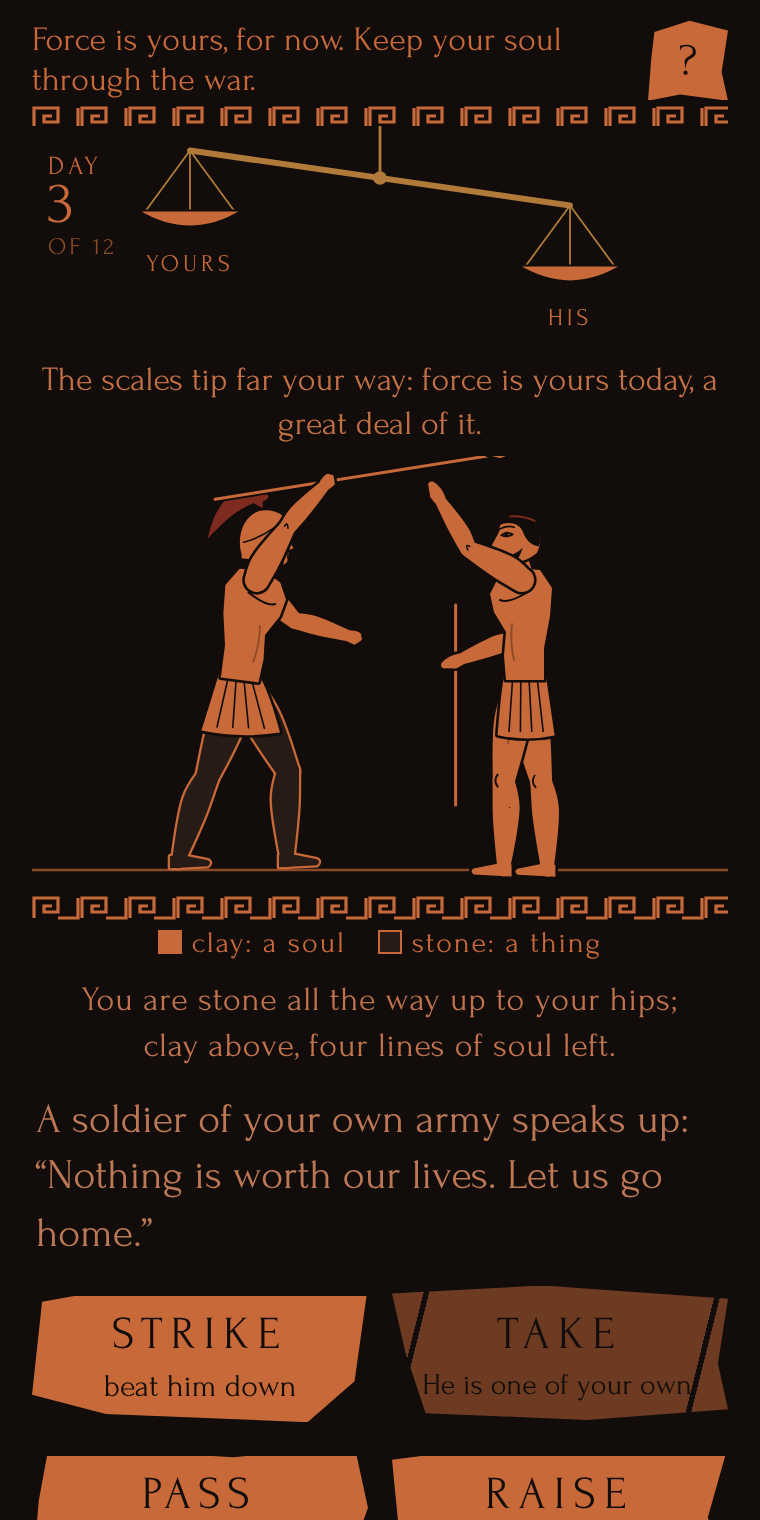
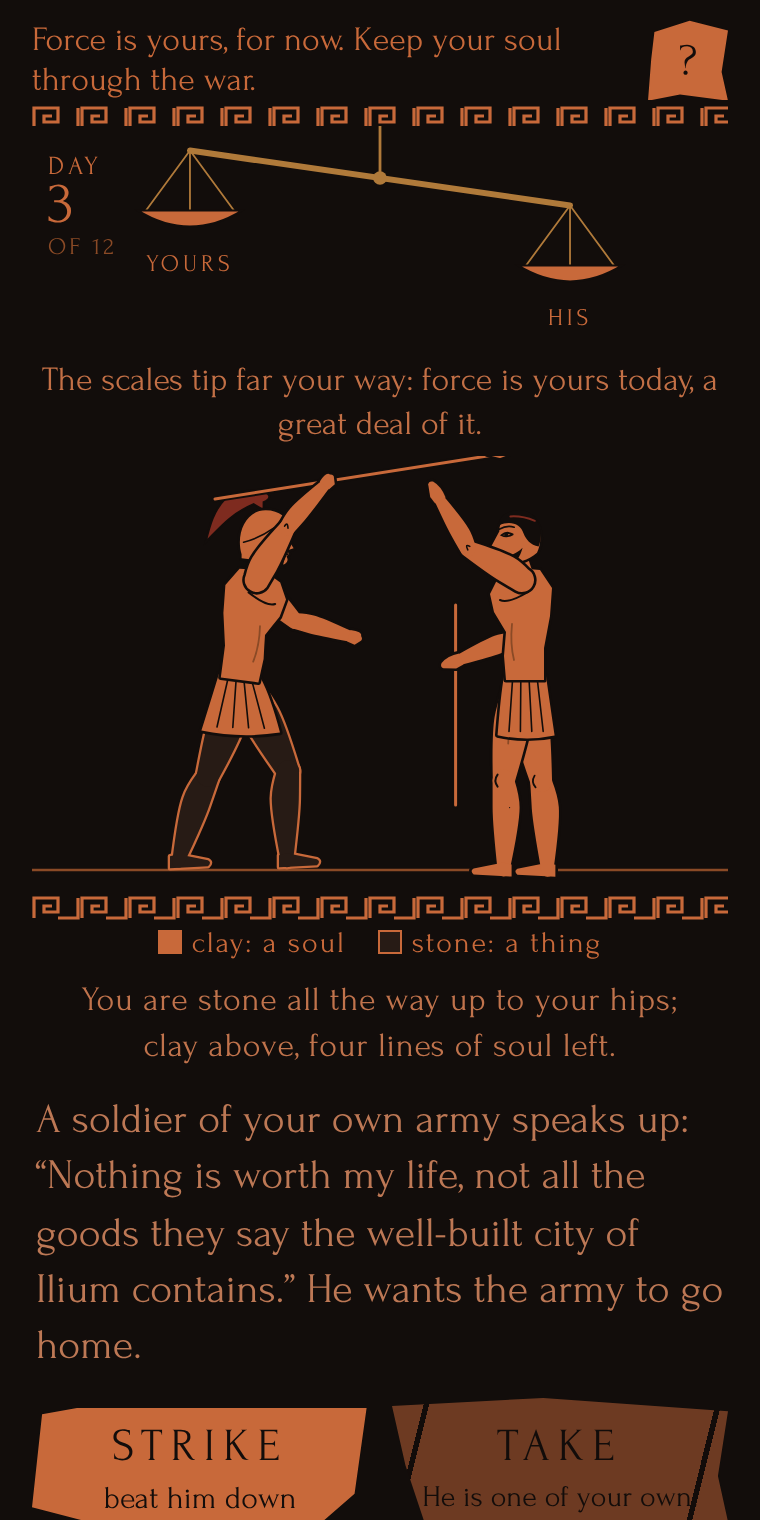
Weil's Vase, revision 6: quotations checked against the pamphlet; two lines made McCarthy's
Claude-Session: https://claude.ai/code/session_018niUhvwiMGBqmAW4HxwubP

Changed region(s): [[0.0303, 0.7421, 0.9684, 1.0]]

diff --git a/weil/weils-vase.html b/weil/weils-vase.html
@@ -283,13 +283,13 @@ svg{display:block}
     // 'noun' is how the engraved line introduces an armed man, so that the dealt men read as different men
     boy:       { kind: 'suppliant', lines: 6, armed: false, he: 'he', who: 'the boy', line: 'A boy, disarmed, clasps your knees. He offers a ransom for his life.', src: 'pp. 5, 24: Lycaon' },
     suppliant: { kind: 'suppliant', lines: 6, armed: false, he: 'he', who: 'the young man', line: 'A young man has thrown away his spear and clasps your knees. He begs you by your father.', src: 'pp. 5–6, 24' },
-    suppliant2:{ kind: 'suppliant', lines: 5, armed: false, he: 'he', who: 'the wounded man', line: 'A wounded man, his spear gone, holds out his arms to you. “I implore you, by your knees.”', src: 'p. 19: Hector, wounded to death' },
+    suppliant2:{ kind: 'suppliant', lines: 5, armed: false, he: 'he', who: 'the wounded man', line: 'A wounded man, his spear gone, holds out his arms to you. “I implore you, by your soul, by your knees, by your parents.”', src: 'p. 19: Hector, wounded to death' },
     stoneman:  { kind: 'armed', lines: 1, armed: true, he: 'he', who: 'the armed man', noun: 'An armed man', src: 'pp. 25–26' },
     stone2:    { kind: 'armed', lines: 1, armed: true, he: 'he', who: 'the charioteer', noun: 'A charioteer, down from his car', src: 'pp. 25–26' },
     stone3:    { kind: 'armed', lines: 2, armed: true, he: 'he', who: 'the Lycian', noun: 'A Lycian, far from home', src: 'pp. 25–26' },
     half:      { kind: 'armed', lines: 3, armed: true, he: 'he', who: 'the man with the wounded hand', noun: 'A man with a wounded hand', src: 'pp. 12–13: fear changes sides' },
     guest:     { kind: 'armed', lines: 5, armed: true, he: 'he', who: 'the spearman', noun: 'A spearman of the enemy', src: 'p. 28: Glaucus and Diomedes' },
-    speaker:   { kind: 'speaker', lines: 6, armed: false, he: 'he', who: 'the soldier who spoke up', line: 'A soldier of your own army speaks up: “Nothing is worth our lives. Let us go home.”', src: 'pp. 11, 20: Thersites; Achilles' },
+    speaker:   { kind: 'speaker', lines: 6, armed: false, he: 'he', who: 'the soldier who spoke up', line: 'A soldier of your own army speaks up: “Nothing is worth my life, not all the goods they say the well-built city of Ilium contains.” He wants the army to go home.', src: 'pp. 11, 20: Thersites; Achilles' },
     captive:   { kind: 'captive', lines: 6, armed: false, he: 'she', who: 'the woman at the loom', line: 'A woman of the taken city stands at her loom. She is yours, if you want her.', src: 'pp. 8–10' },
     priest:    { kind: 'priest', lines: 6, armed: false, he: 'he', who: 'the old priest', line: 'An old priest asks for his daughter back. Your army holds her. He brings a ransom.', src: 'pp. 8, 14: Chryses' },
     runner:    { kind: 'runner', lines: 5, armed: false, he: 'he', who: 'the man who ran from you', line: 'A man runs from you across the plain, the last of his company.', src: 'p. 17: “steadily killing the hindmost”' },

diff --git a/weil/mechanism.js b/weil/mechanism.js
@@ -86,13 +86,13 @@
     // 'noun' is how the engraved line introduces an armed man, so that the dealt men read as different men
     boy:       { kind: 'suppliant', lines: 6, armed: false, he: 'he', who: 'the boy', line: 'A boy, disarmed, clasps your knees. He offers a ransom for his life.', src: 'pp. 5, 24: Lycaon' },
     suppliant: { kind: 'suppliant', lines: 6, armed: false, he: 'he', who: 'the young man', line: 'A young man has thrown away his spear and clasps your knees. He begs you by your father.', src: 'pp. 5–6, 24' },
-    suppliant2:{ kind: 'suppliant', lines: 5, armed: false, he: 'he', who: 'the wounded man', line: 'A wounded man, his spear gone, holds out his arms to you. “I implore you, by your knees.”', src: 'p. 19: Hector, wounded to death' },
+    suppliant2:{ kind: 'suppliant', lines: 5, armed: false, he: 'he', who: 'the wounded man', line: 'A wounded man, his spear gone, holds out his arms to you. “I implore you, by your soul, by your knees, by your parents.”', src: 'p. 19: Hector, wounded to death' },
     stoneman:  { kind: 'armed', lines: 1, armed: true, he: 'he', who: 'the armed man', noun: 'An armed man', src: 'pp. 25–26' },
     stone2:    { kind: 'armed', lines: 1, armed: true, he: 'he', who: 'the charioteer', noun: 'A charioteer, down from his car', src: 'pp. 25–26' },
     stone3:    { kind: 'armed', lines: 2, armed: true, he: 'he', who: 'the Lycian', noun: 'A Lycian, far from home', src: 'pp. 25–26' },
     half:      { kind: 'armed', lines: 3, armed: true, he: 'he', who: 'the man with the wounded hand', noun: 'A man with a wounded hand', src: 'pp. 12–13: fear changes sides' },
     guest:     { kind: 'armed', lines: 5, armed: true, he: 'he', who: 'the spearman', noun: 'A spearman of the enemy', src: 'p. 28: Glaucus and Diomedes' },
-    speaker:   { kind: 'speaker', lines: 6, armed: false, he: 'he', who: 'the soldier who spoke up', line: 'A soldier of your own army speaks up: “Nothing is worth our lives. Let us go home.”', src: 'pp. 11, 20: Thersites; Achilles' },
+    speaker:   { kind: 'speaker', lines: 6, armed: false, he: 'he', who: 'the soldier who spoke up', line: 'A soldier of your own army speaks up: “Nothing is worth my life, not all the goods they say the well-built city of Ilium contains.” He wants the army to go home.', src: 'pp. 11, 20: Thersites; Achilles' },
     captive:   { kind: 'captive', lines: 6, armed: false, he: 'she', who: 'the woman at the loom', line: 'A woman of the taken city stands at her loom. She is yours, if you want her.', src: 'pp. 8–10' },
     priest:    { kind: 'priest', lines: 6, armed: false, he: 'he', who: 'the old priest', line: 'An old priest asks for his daughter back. Your army holds her. He brings a ransom.', src: 'pp. 8, 14: Chryses' },
     runner:    { kind: 'runner', lines: 5, armed: false, he: 'he', who: 'the man who ran from you', line: 'A man runs from you across the plain, the last of his company.', src: 'p. 17: “steadily killing the hindmost”' },

diff --git a/weil/memo.md b/weil/memo.md
@@ -229,3 +229,5 @@ The spread is wide, so the decisions matter. No rule wins everywhere: measured k
 > **Revision 4 (3 Nov 2026): the inks.** The author found every text colour troubling in turn: the added white as a glare, the muted bone as a third colour that was neither clay nor anything else, a pure grey for the stone line still too close to white. His proposal, built and compared in three rounds of side-by-side renderings: one axis of colour from clay to the stone line's own colour, and every kind of text a point on it, with size climbing along the same axis. The anchor is a mid grey warmed with a third of clay (`#AF8A75`): the stone line, alone, at 25 px. From there down toward clay: what you did (0.7, 22 px), Weil's rule (0.6, 18), who is before you and what the scales did (0.45, 22 and 17), your state and the quotation (0.3, 17), the scales caption and the teaching line (0.2, 17), the aim in clay (17). The start and end screens sit on the same axis (the lede at 0.8, the verdict headline at 0.5, Weil's paragraph at 0.8). No white anywhere; the clay and glaze of the figures are untouched. Every size went up a step, the sherd labels and the help pages too. Section 13's palette entry for added white is superseded by this note: added white now appears only in the flash on a figure's band and the glow of the night's grace. CSS only; calibration 30/30; sessions and screenshots regenerated.
 
 > **Revision 5 (3 Nov 2026): prose, not a column.** Two notes from the author after revision 4: the ramp had not been applied consistently (the end screen, How to play and About sat high on the axis and read as a second, grey palette next to the clay day screen), and the result was a staccato of five centred one-liners. His steer: this game is for people willing to read a bit, so longer paragraphs. Final choices: the grey belongs only to what force did to you, which is the stone line and the fate headline at the end; every other line on every screen stays at the clay end of the axis. The result is three blocks: what happened as one paragraph (the deed and the scales joined, the scales clause with a semicolon: "The scales hang where they were; force used holds the turn off a little."), then the stone line with Weil's rule under it in the same ink the first time it applies, then the poem's line as an epigraph. The day's teaching sentence is now the last sentence of the engraved line rather than a line of its own; the end screen's tally is one paragraph. Prose is set left, as text to read; single lines (the state, the stone line, the epigraph, the headline) stay centred as inscriptions. Calibration 30/30; sessions and screenshots regenerated.
+
+> **Revision 6 (3 Nov 2026): the quotations, checked.** With the Pendle Hill pamphlet in hand, every quotation the game shows (29, in the men's lines, the results, About and the end screen) was matched against McCarthy's text by machine and read. Twenty-seven are exact. Two were ours in quotation marks: the wounded man's plea, which is now Weil's full line ("I implore you, by your soul, by your knees, by your parents.", p. 19), and the soldier who speaks up, who had a line of ours ("Nothing is worth our lives. Let us go home."); Weil quotes Achilles saying exactly this (p. 20), so he now says that ("Nothing is worth my life, not all the goods they say the well-built city of Ilium contains."), and the wish to go home is the game's gloss outside the quotation marks. The bibliographic note in About agrees with the pamphlet's own (Cahiers du Sud, Dec. 1940 and Jan. 1941; McCarthy, with Macdonald checking the Homer against the Greek; Politics, Nov. 1945); the pamphlet prints the pseudonym as "Emile Navis", which is its misprint for the anagram Novis, kept as Novis. Nothing else touched.
